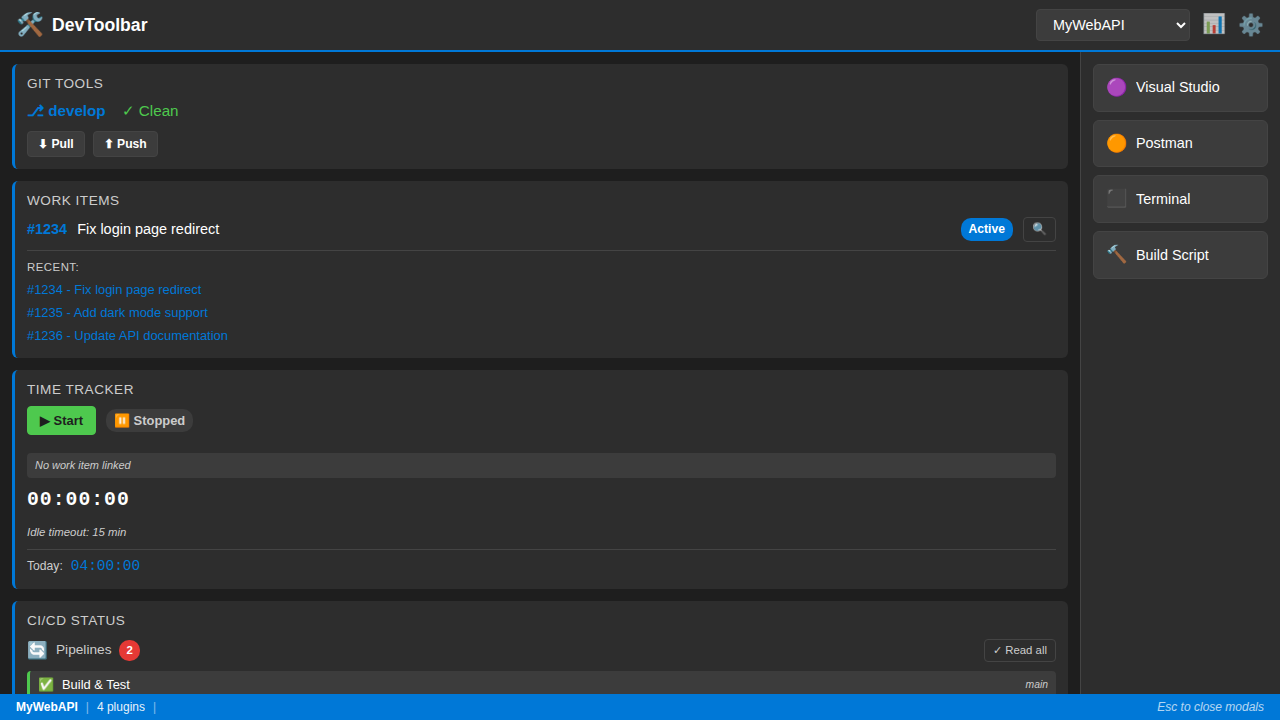
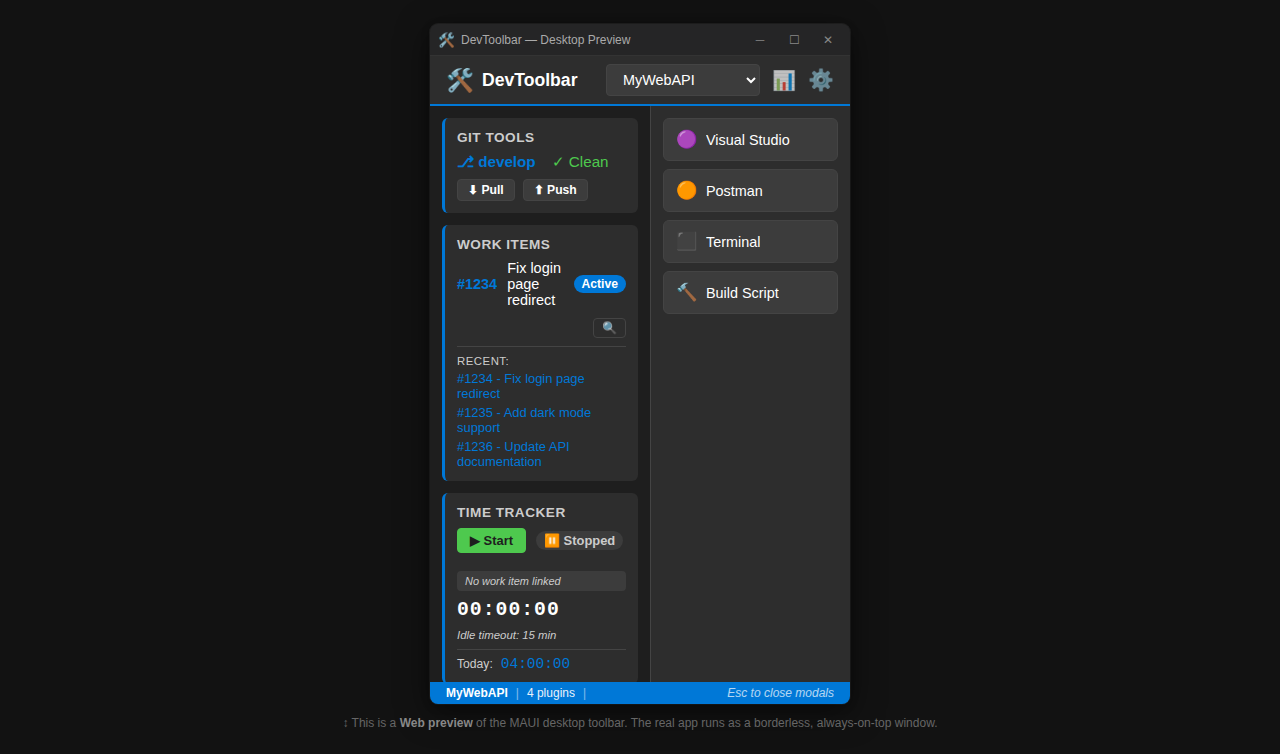
Transform Web host to MAUI desktop preview with window chrome, remove default Blazor template

diff --git a/src/DevToolbar.Web/Components/Layout/MainLayout.razor.css b/src/DevToolbar.Web/Components/Layout/MainLayout.razor.css
@@ -1,81 +1,109 @@
-.page {
-    position: relative;
+/* MAUI Desktop Preview Wrapper */
+.maui-desktop-preview {
+    display: flex;
+    flex-direction: column;
+    align-items: center;
+    justify-content: flex-start;
+    min-height: 100vh;
+    background: #121212;
+    padding: 24px;
+    gap: 12px;
+}
+
+/* Simulated MAUI Window Frame */
+.maui-window {
+    width: 420px;
+    height: 680px;
+    border-radius: 8px;
+    overflow: hidden;
+    box-shadow:
+        0 8px 32px rgba(0, 0, 0, 0.5),
+        0 2px 8px rgba(0, 0, 0, 0.3),
+        0 0 0 1px rgba(255, 255, 255, 0.08);
+    display: flex;
+    flex-direction: column;
+    background: #1e1e1e;
+}
+
+/* Simulated Title Bar (like MAUI borderless window) */
+.maui-titlebar {
+    display: flex;
+    align-items: center;
+    height: 32px;
+    background: #252526;
+    border-bottom: 1px solid #333;
+    padding: 0 8px;
+    gap: 6px;
+    flex-shrink: 0;
+    user-select: none;
+    -webkit-app-region: drag;
+}
+
+.maui-titlebar-icon {
+    font-size: 0.85em;
+}
+
+.maui-titlebar-text {
+    font-size: 0.75em;
+    color: #aaa;
+    font-family: 'Segoe UI', sans-serif;
+}
+
+.maui-titlebar-spacer {
+    flex: 1;
+}
+
+.maui-titlebar-btn {
+    width: 28px;
+    height: 24px;
+    border: none;
+    background: transparent;
+    color: #888;
+    font-size: 0.75em;
+    cursor: default;
+    display: flex;
+    align-items: center;
+    justify-content: center;
+    border-radius: 3px;
+}
+
+.maui-titlebar-btn:hover {
+    background: rgba(255, 255, 255, 0.08);
+    color: #ccc;
+}
+
+.maui-btn-close:hover {
+    background: #e81123;
+    color: white;
+}
+
+/* Content area fills the rest of the window */
+.maui-content {
+    flex: 1;
+    overflow: hidden;
     display: flex;
     flex-direction: column;
 }
 
-main {
-    flex: 1;
+/* Override toolbar-shell to fill MAUI content area */
+.maui-content ::deep .toolbar-shell {
+    height: 100%;
 }
 
-.sidebar {
-    background-image: linear-gradient(180deg, rgb(5, 39, 103) 0%, #3a0647 70%);
+/* Preview hint text */
+.maui-preview-hint {
+    font-size: 0.75em;
+    color: #666;
+    text-align: center;
+    font-family: 'Segoe UI', sans-serif;
+    margin: 0;
 }
 
-.top-row {
-    background-color: #f7f7f7;
-    border-bottom: 1px solid #d6d5d5;
-    justify-content: flex-end;
-    height: 3.5rem;
-    display: flex;
-    align-items: center;
+.maui-preview-hint strong {
+    color: #888;
 }
 
-    .top-row ::deep a, .top-row ::deep .btn-link {
-        white-space: nowrap;
-        margin-left: 1.5rem;
-        text-decoration: none;
-    }
-
-    .top-row ::deep a:hover, .top-row ::deep .btn-link:hover {
-        text-decoration: underline;
-    }
-
-    .top-row ::deep a:first-child {
-        overflow: hidden;
-        text-overflow: ellipsis;
-    }
-
-@media (max-width: 640.98px) {
-    .top-row {
-        justify-content: space-between;
-    }
-
-    .top-row ::deep a, .top-row ::deep .btn-link {
-        margin-left: 0;
-    }
-}
-
-@media (min-width: 641px) {
-    .page {
-        flex-direction: row;
-    }
-
-    .sidebar {
-        width: 250px;
-        height: 100vh;
-        position: sticky;
-        top: 0;
-    }
-
-    .top-row {
-        position: sticky;
-        top: 0;
-        z-index: 1;
-    }
-
-    .top-row.auth ::deep a:first-child {
-        flex: 1;
-        text-align: right;
-        width: 0;
-    }
-
-    .top-row, article {
-        padding-left: 2rem !important;
-        padding-right: 1.5rem !important;
-    }
-}
-
+/* Blazor error UI */
 #blazor-error-ui {
     color-scheme: light only;
     background: lightyellow;

diff --git a/tests/DevToolbar.Tests.E2E/Scenarios/ToolbarUiTests.cs b/tests/DevToolbar.Tests.E2E/Scenarios/ToolbarUiTests.cs
@@ -714,4 +714,56 @@ public class ToolbarUiTests : PageTest
         await Expect(Page.Locator(".config-level-name", new() { HasText = "Template Config" })).ToBeVisibleAsync();
         await Expect(Page.Locator(".config-level-path", new() { HasText = "template-webapi.json" })).ToBeVisibleAsync();
     }
+
+    // ==============================================================
+    // MAUI Desktop Preview Chrome Tests
+    // ==============================================================
+
+    [Test]
+    public async Task MauiPreview_ShouldShowWindowChrome()
+    {
+        await NavigateAndWait();
+        await Expect(Page.Locator(".maui-window")).ToBeVisibleAsync();
+    }
+
+    [Test]
+    public async Task MauiPreview_ShouldShowTitleBar()
+    {
+        await NavigateAndWait();
+        await Expect(Page.Locator(".maui-titlebar")).ToBeVisibleAsync();
+        await Expect(Page.Locator(".maui-titlebar-text")).ToContainTextAsync("DevToolbar");
+    }
+
+    [Test]
+    public async Task MauiPreview_ShouldShowWindowButtons()
+    {
+        await NavigateAndWait();
+        await Expect(Page.Locator(".maui-btn-minimize")).ToBeVisibleAsync();
+        await Expect(Page.Locator(".maui-btn-maximize")).ToBeVisibleAsync();
+        await Expect(Page.Locator(".maui-btn-close")).ToBeVisibleAsync();
+    }
+
+    [Test]
+    public async Task MauiPreview_ShouldShowPreviewHint()
+    {
+        await NavigateAndWait();
+        await Expect(Page.Locator(".maui-preview-hint")).ToContainTextAsync("Web preview");
+    }
+
+    [Test]
+    public async Task MauiPreview_ToolbarRendersInsideWindow()
+    {
+        await NavigateAndWait();
+        // The toolbar-shell must be inside the MAUI window content area
+        await Expect(Page.Locator(".maui-content .toolbar-shell")).ToBeVisibleAsync();
+    }
+
+    [Test]
+    public async Task MauiPreview_SettingsPageAlsoWrappedInWindow()
+    {
+        await NavigateAndWait();
+        await Page.GotoAsync($"{BaseUrl}/settings", new() { WaitUntil = WaitUntilState.Load });
+        await Expect(Page.Locator(".maui-window")).ToBeVisibleAsync();
+        await Expect(Page.Locator(".maui-content .settings-page")).ToBeVisibleAsync(new() { Timeout = 30000 });
+    }
 }

diff --git a/tests/DevToolbar.Tests.E2E/Scenarios/ScreenshotTests.cs b/tests/DevToolbar.Tests.E2E/Scenarios/ScreenshotTests.cs
@@ -240,4 +240,15 @@ public class ScreenshotTests : PageTest
         await Page.ScreenshotAsync(new() { Path = ScreenshotPath("14-settings-config-hierarchy"), FullPage = true });
         Assert.That(File.Exists(ScreenshotPath("14-settings-config-hierarchy")), Is.True);
     }
+
+    [Test, Order(15)]
+    public async Task Capture_15_MauiDesktopPreview()
+    {
+        await NavigateAndWait();
+        // Verify MAUI window chrome is visible
+        await Expect(Page.Locator(".maui-window")).ToBeVisibleAsync(new() { Timeout = 5000 });
+        await Expect(Page.Locator(".maui-titlebar")).ToBeVisibleAsync(new() { Timeout = 5000 });
+        await Page.ScreenshotAsync(new() { Path = ScreenshotPath("15-maui-desktop-preview"), FullPage = true });
+        Assert.That(File.Exists(ScreenshotPath("15-maui-desktop-preview")), Is.True);
+    }
 }
